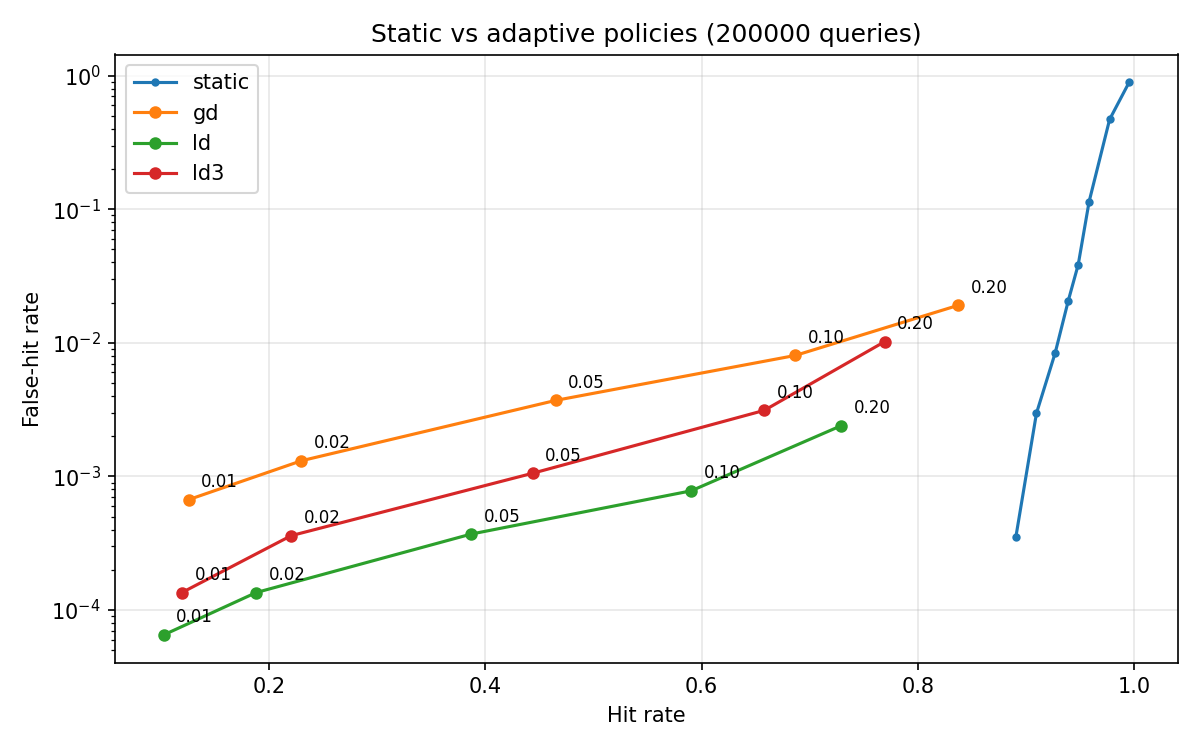
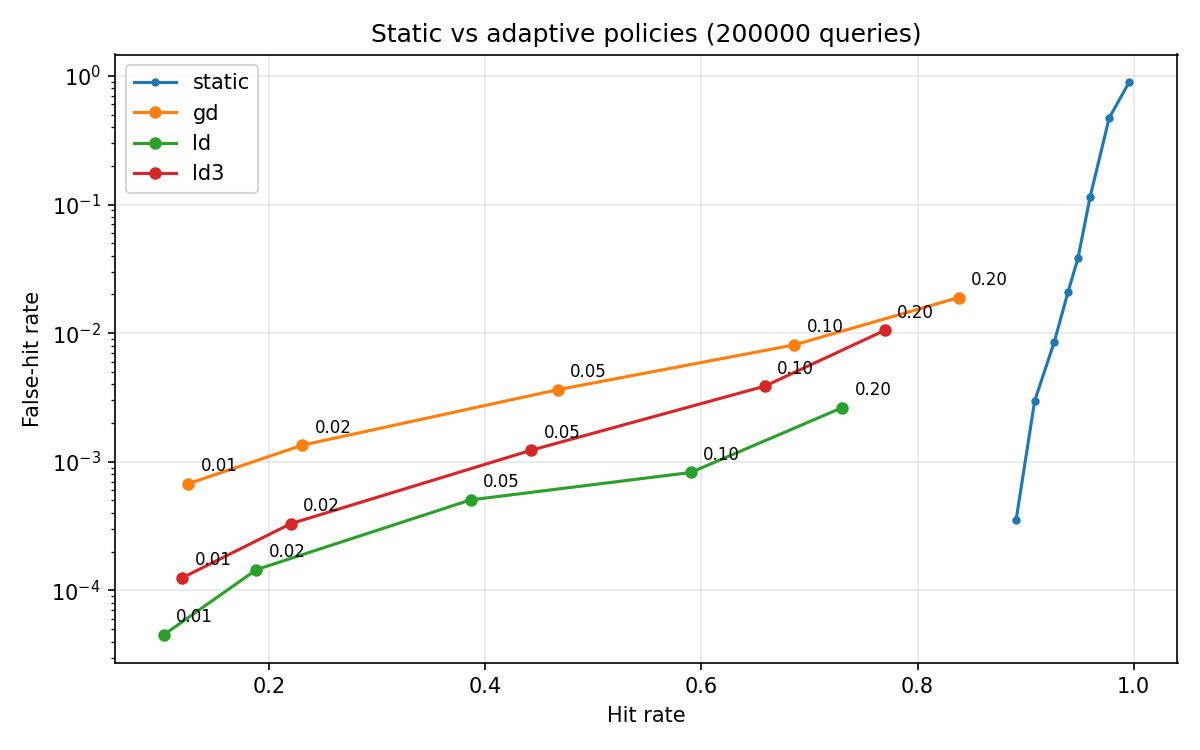
Add Docker packaging and a HOST bind option
The proxy binds loopback by default. Containers set HOST=0.0.0.0.
The image builds on trixie because bookworm libstdc++ lacks the C++
symbols the ONNX Runtime build needs. The README gains install and
Docker quickstart sections. Bench re-run on QQP reproduces the
committed numbers exactly. New charts.

diff --git a/src/main.rs b/src/main.rs
@@ -837,8 +837,10 @@ async fn main() -> Result<(), Box<dyn std::error::Error + Send + Sync>> {
         .ok()
         .or(file_config.port)
         .unwrap_or_else(|| "8080".to_string());
-    let listener = tokio::net::TcpListener::bind(format!("127.0.0.1:{}", port)).await?;
-    info!("veritas-cache listening on 127.0.0.1:{}", port);
+    // HOST defaults to loopback. Containers must set HOST=0.0.0.0.
+    let host = std::env::var("HOST").unwrap_or_else(|_| "127.0.0.1".to_string());
+    let listener = tokio::net::TcpListener::bind(format!("{}:{}", host, port)).await?;
+    info!("veritas-cache listening on {}:{}", host, port);
     axum::serve(listener, app).await?;
 
     Ok(())

diff --git a/README.md b/README.md
@@ -34,6 +34,28 @@ cargo run
 
 The proxy listens on `127.0.0.1:8080`.
 
+## Install as a service (macOS)
+
+Run the installer once. It copies the binary to `~/.local/bin`, copies the model files to
+`~/.config/veritas-cache/models/`, and registers a launchd agent that starts at login.
+
+```bash
+./scripts/install.sh
+```
+
+The service listens on `127.0.0.1:18091` by default. Set `VERITAS_PORT` to change it.
+
+## Run with Docker
+
+```bash
+docker build -t veritas-cache .
+docker run -p 8080:8080 -v veritas-data:/data veritas-cache
+```
+
+The image downloads the model files at build time. The volume keeps the cache database.
+The default upstream is the OpenAI API. Point it at another compatible provider with
+`-e UPSTREAM_BASE_URL=https://openrouter.ai/api`.
+
 ## Point an OpenAI SDK client at the proxy
 
 Change the `base_url` in the client configuration. Use the same API key.
